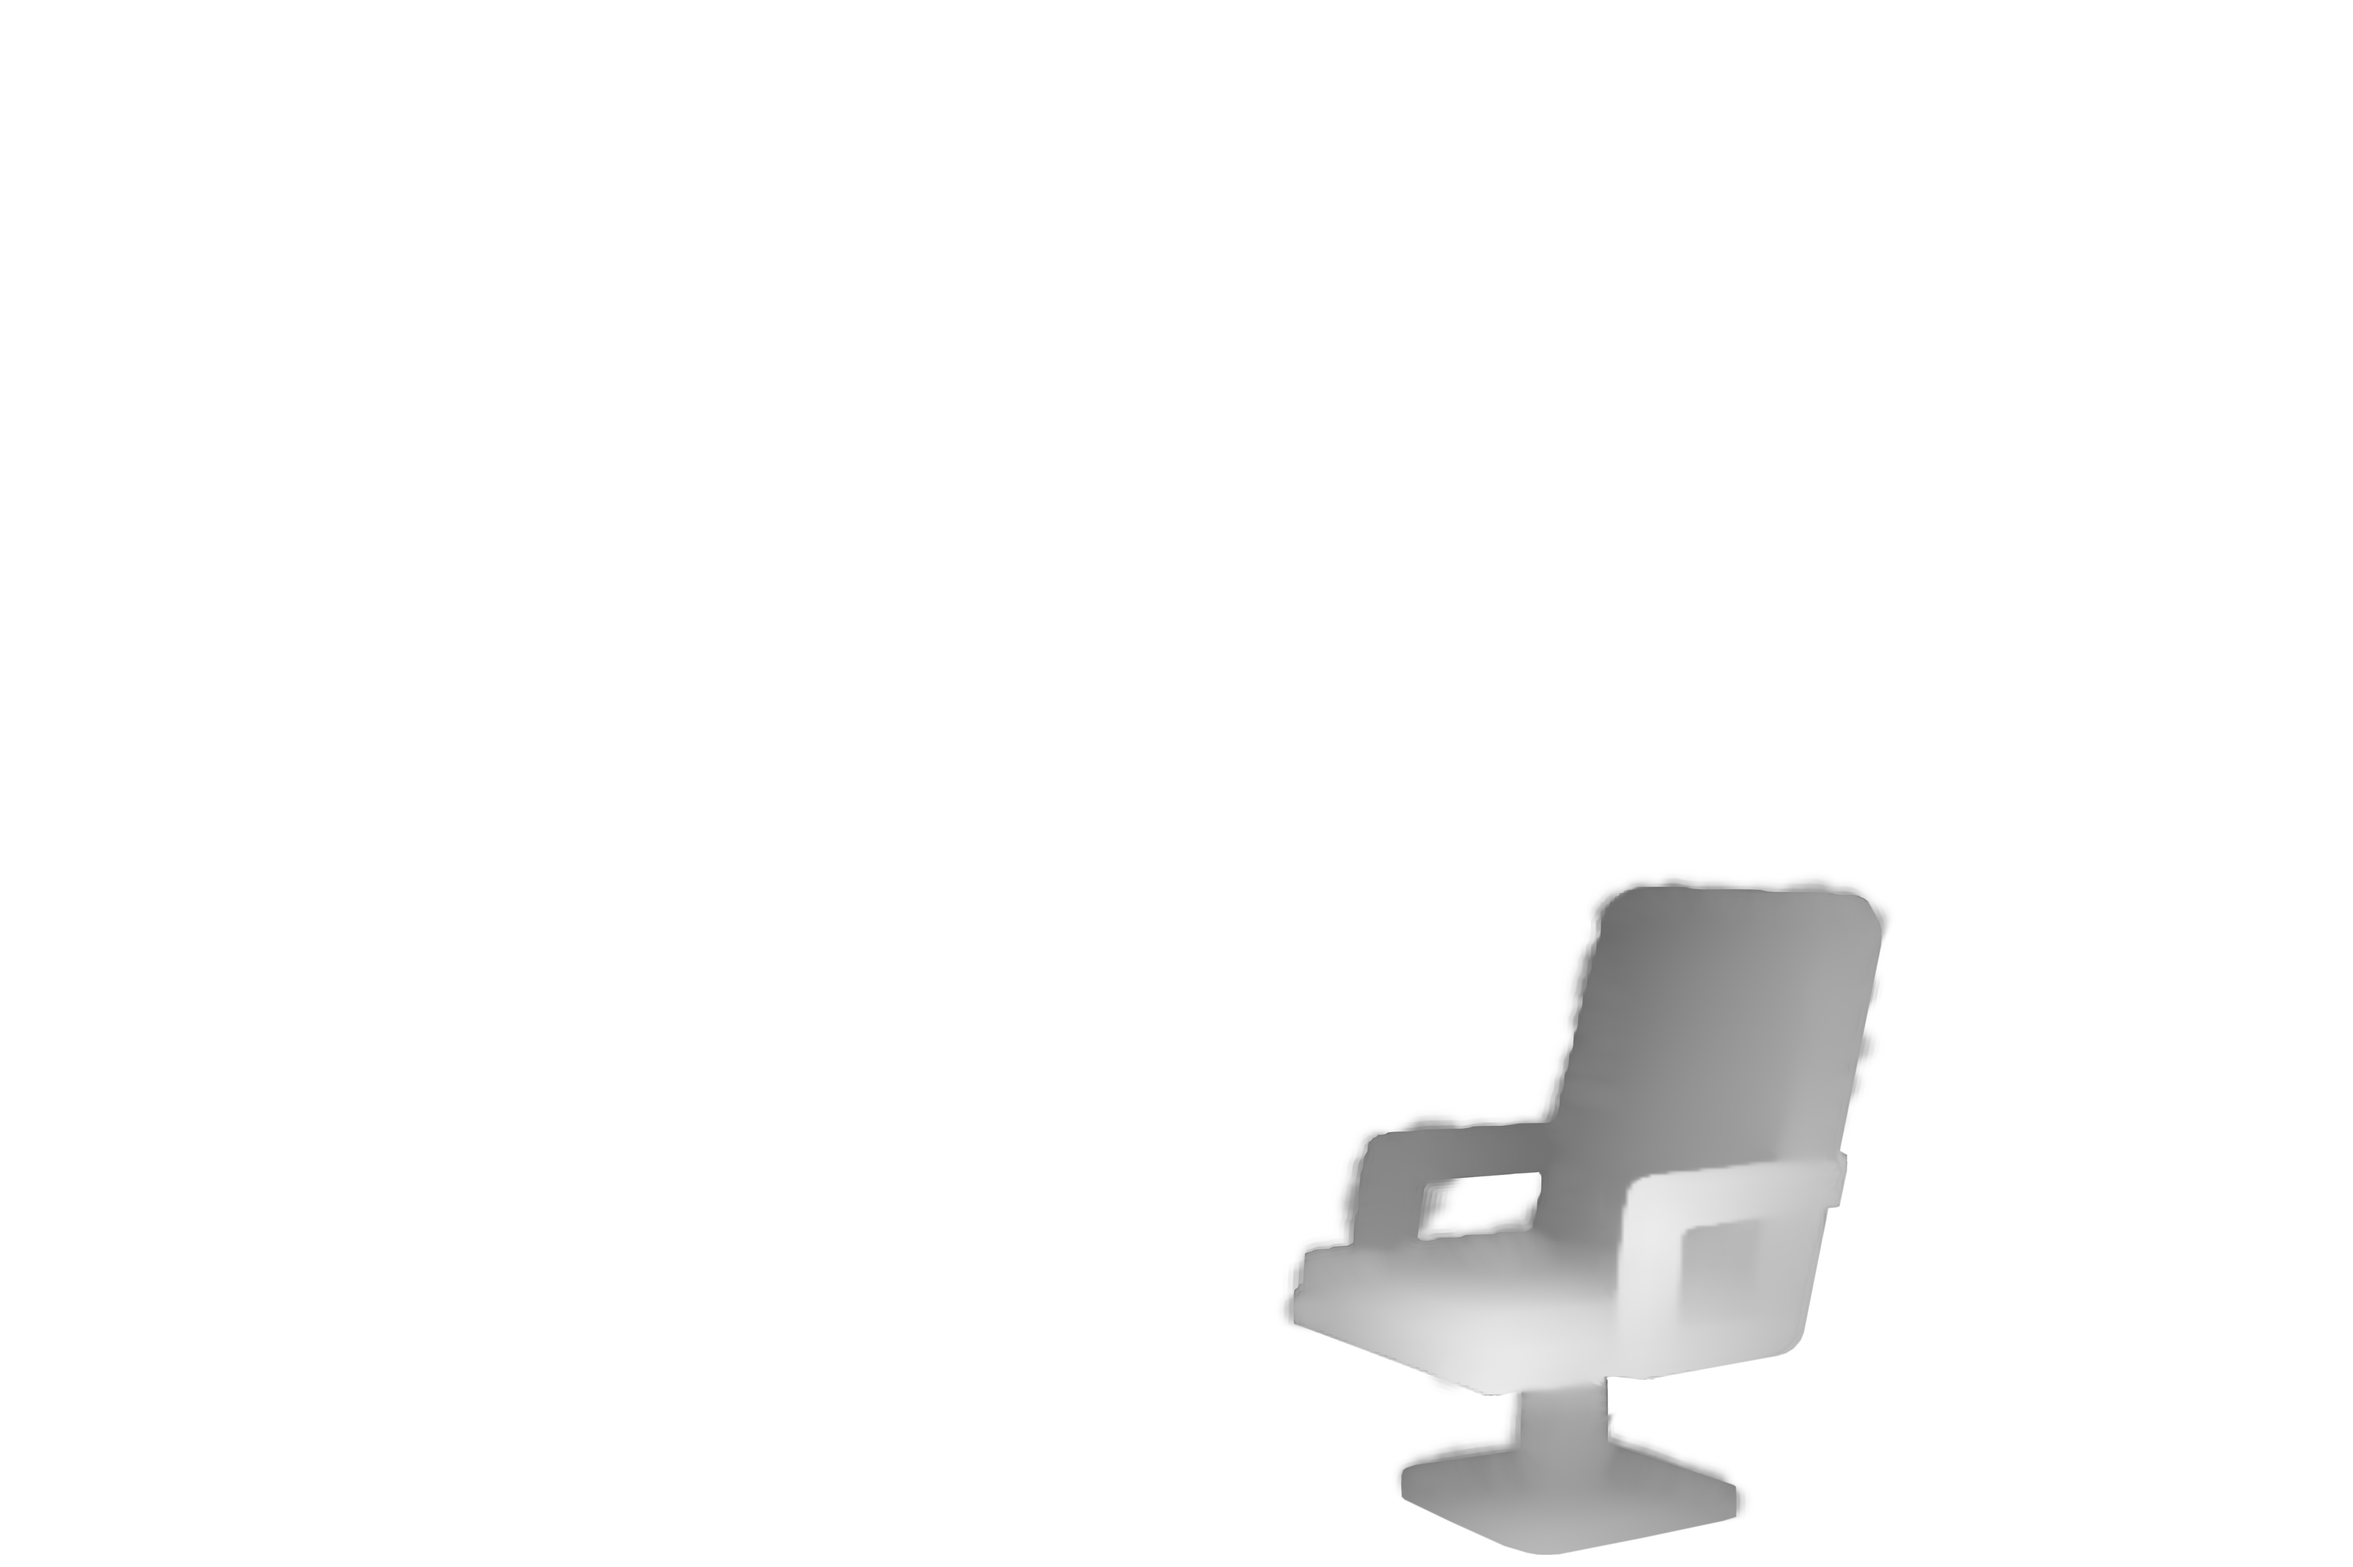
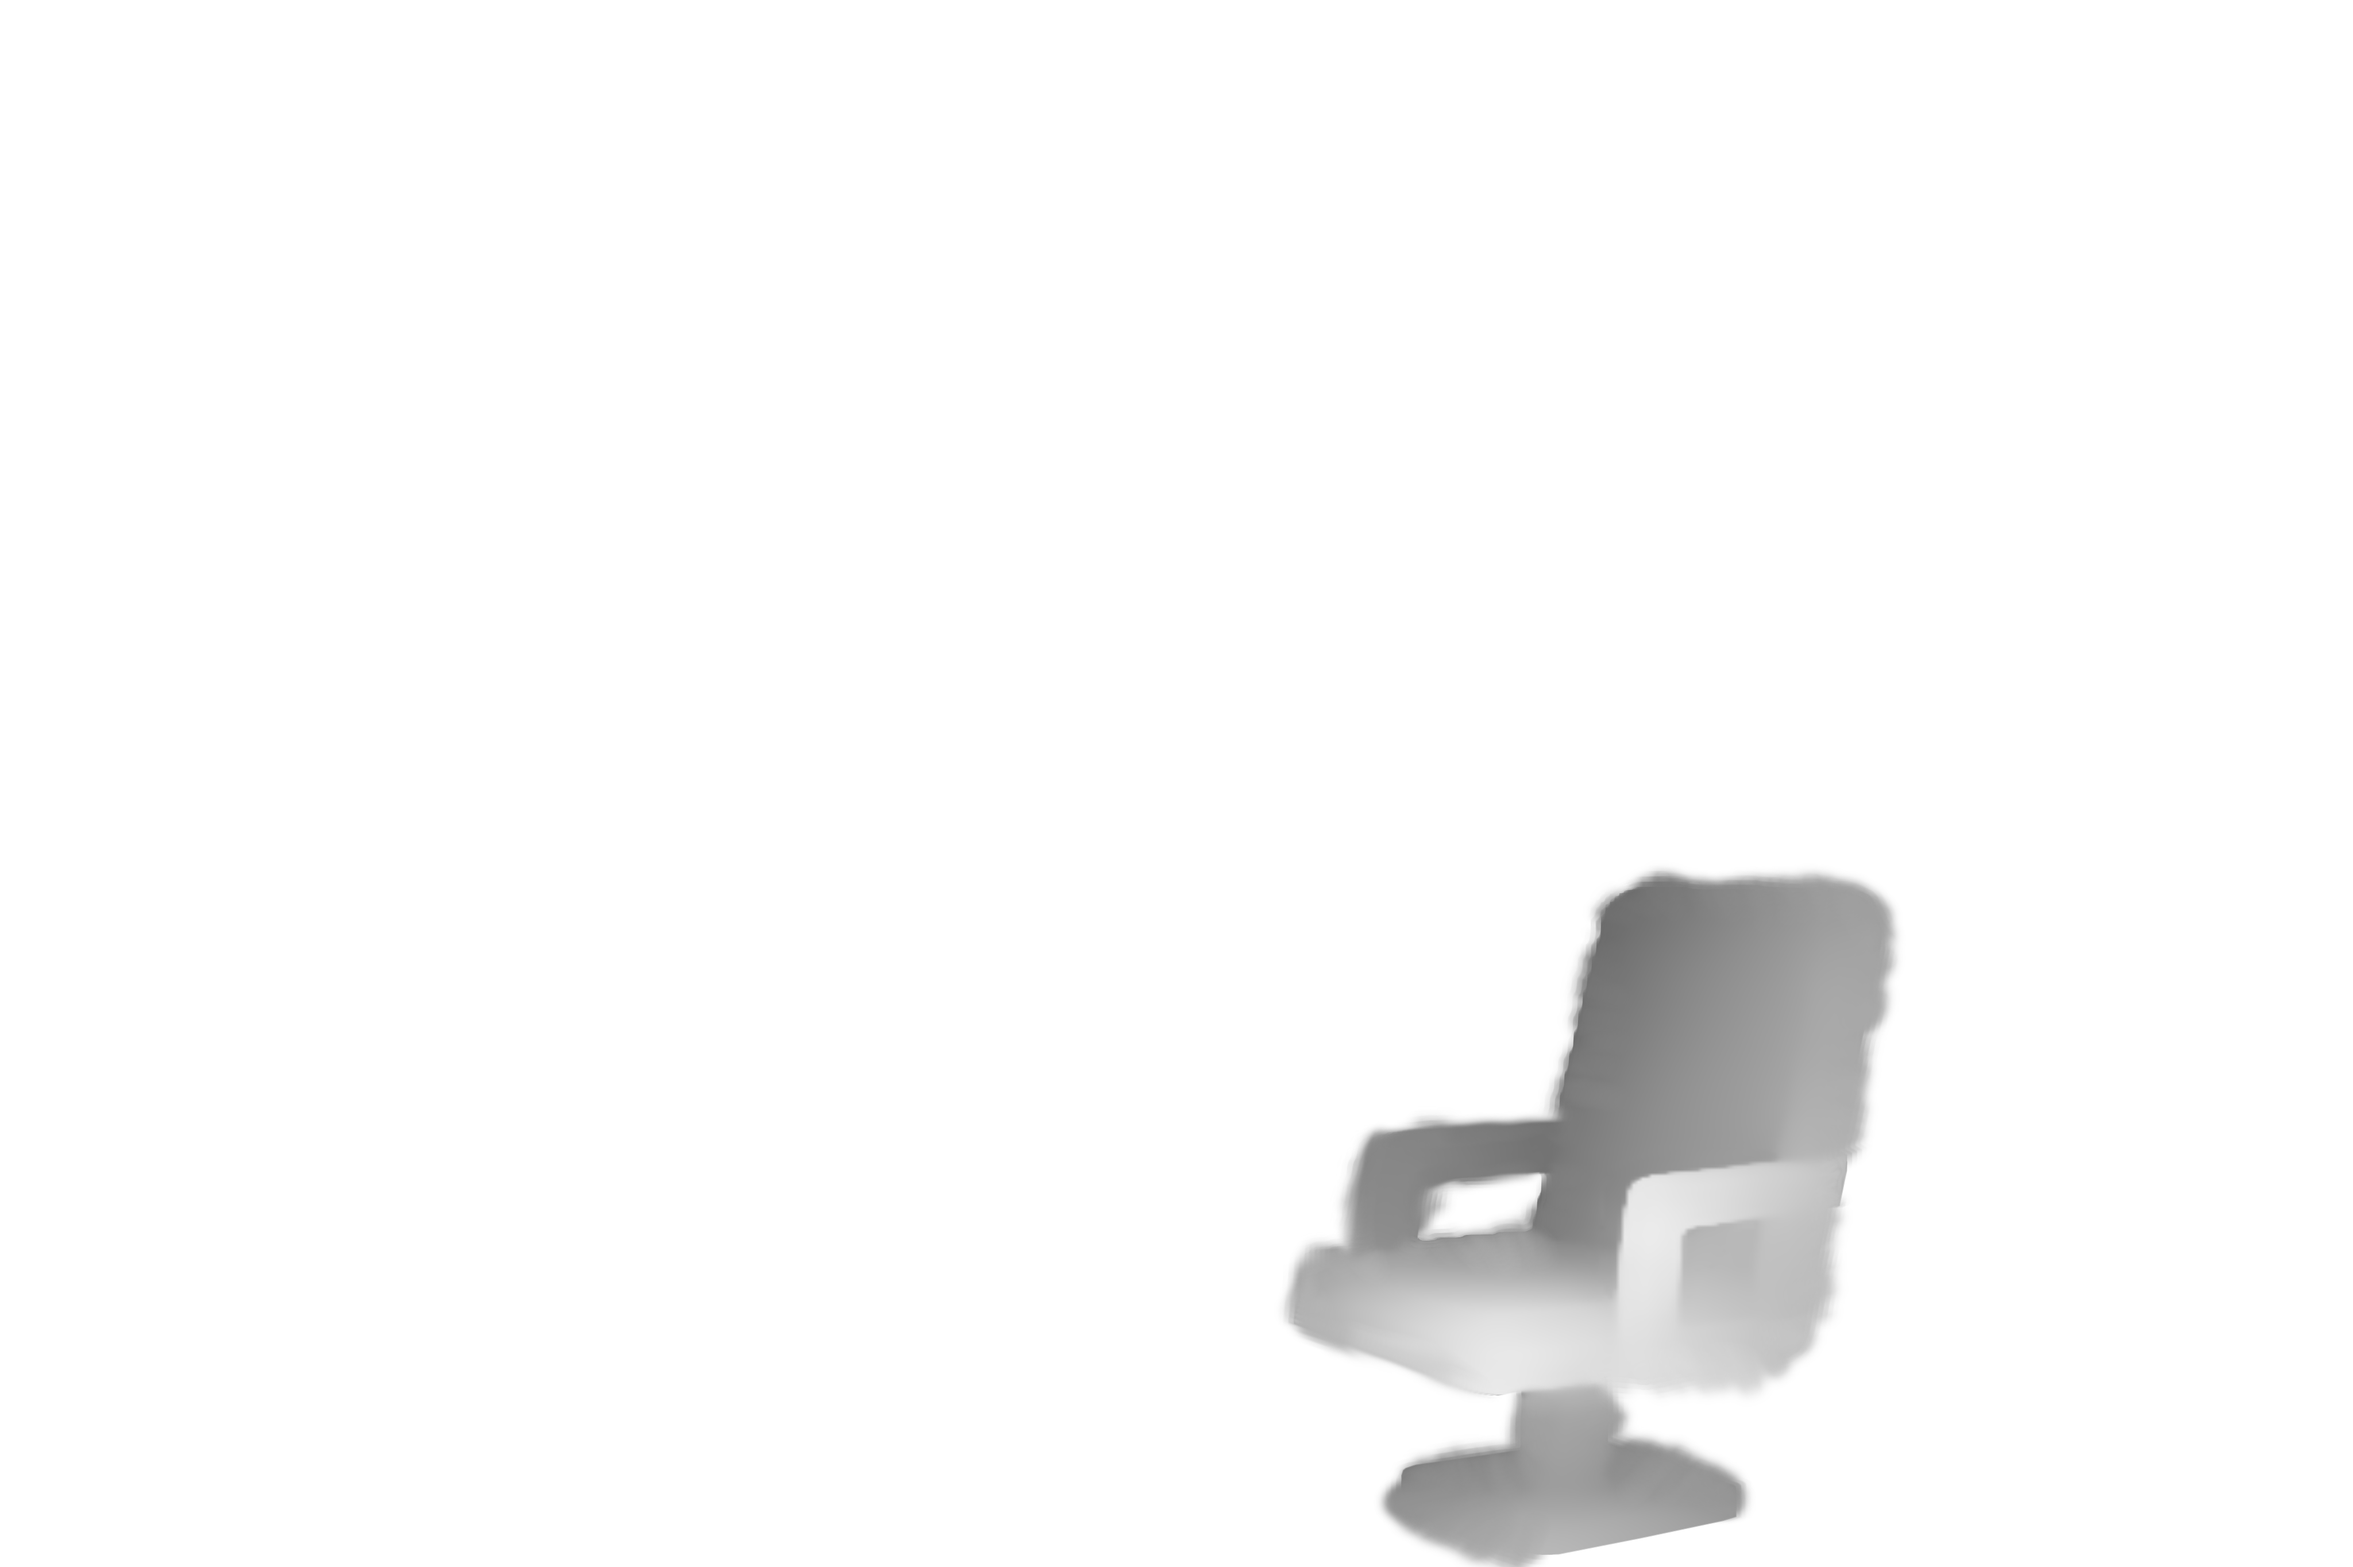
3d image

diff --git a/src/components/CrewCabin.js b/src/components/CrewCabin.js
@@ -4,12 +4,46 @@ import * as THREE from 'three';
 const imageDepthPairs = [
   {
     image: process.env.PUBLIC_URL + '/crew-cabin/textures/room.png',
-    depth: process.env.PUBLIC_URL + '/crew-cabin/depth-maps/room.png'
+    depth: process.env.PUBLIC_URL + '/crew-cabin/depth-maps/room.png',
+    zIndex: 0,
+    depthStart: 0.0
   },
   {
-    image: process.env.PUBLIC_URL + '/crew-cabin/textures/chair.png',
-    depth: process.env.PUBLIC_URL + '/crew-cabin/depth-maps/chair.png'
-  }
+    image: process.env.PUBLIC_URL + '/crew-cabin/textures/table-legs.png',
+    depth: process.env.PUBLIC_URL + '/crew-cabin/depth-maps/table-legs.png',
+    zIndex: 0.1,
+    depthStart: 0.1
+  },
+  {
+    image: process.env.PUBLIC_URL + '/crew-cabin/textures/table-no-legs.png',
+    depth: process.env.PUBLIC_URL + '/crew-cabin/depth-maps/table-no-legs.png',
+    zIndex: 0.1,
+    depthStart: 0.11
+  },
+  {
+    image: process.env.PUBLIC_URL + '/crew-cabin/textures/picture-shadow.png',
+    depth: process.env.PUBLIC_URL + '/crew-cabin/depth-maps/picture.png',
+    zIndex: 0.3,
+    depthStart: 0.2
+  },
+  {
+    image: process.env.PUBLIC_URL + '/crew-cabin/textures/typewriter-shadow.png',
+    depth: process.env.PUBLIC_URL + '/crew-cabin/depth-maps/typewriter.png',
+    zIndex: 0.3,
+    depthStart: 0.2
+  },
+  {
+    image: process.env.PUBLIC_URL + '/crew-cabin/textures/chair-no-arm.png',
+    depth: process.env.PUBLIC_URL + '/crew-cabin/depth-maps/chair-no-arm.png',
+    zIndex: 0.5,
+    depthStart: 0.3
+  },
+  {
+    image: process.env.PUBLIC_URL + '/crew-cabin/textures/chair-arm.png',
+    depth: process.env.PUBLIC_URL + '/crew-cabin/depth-maps/chair-arm.png',
+    zIndex: 0.5,
+    depthStart: 0.18
+  },
 ];
 
 const CrewCabin = () => {
@@ -89,7 +123,8 @@ const CrewCabin = () => {
           u_lightPos: { value: light.position },
           u_lightColor: { value: new THREE.Color(light.color) },
           u_lightIntensity: { value: 1.0 },
-          u_lightEnabled: { value: true }
+          u_lightEnabled: { value: true },
+          u_depthStart: { value: imageDepthPairs[idx].depthStart ?? 0.0 }
         };
 
         // Vertex shader
@@ -97,6 +132,7 @@ const CrewCabin = () => {
           uniform sampler2D u_depth;
           uniform vec2 u_mouse;
           uniform float u_aspectRatio;
+          uniform float u_depthStart;
           varying vec2 vUv;
           varying vec3 vNormal;
           varying vec3 vPosition;
@@ -106,7 +142,7 @@ const CrewCabin = () => {
             vNormal = normal;
 
             vec4 depth = texture2D(u_depth, uv);
-            float height = depth.r;
+            float height = depth.r + u_depthStart;
 
             vec3 newPosition = position + normal * height * 0.5;
 
@@ -169,7 +205,7 @@ const CrewCabin = () => {
 
         // Stack meshes with slight z-offset to avoid z-fighting
         const planeMesh = new THREE.Mesh(geometry, material);
-        planeMesh.position.z = idx * 0.2; // Each mesh slightly in front of previous
+        planeMesh.position.z = imageDepthPairs[idx].zIndex; // Set the z position based on the zIndex
         scene.add(planeMesh);
 
         meshes.push(planeMesh);
